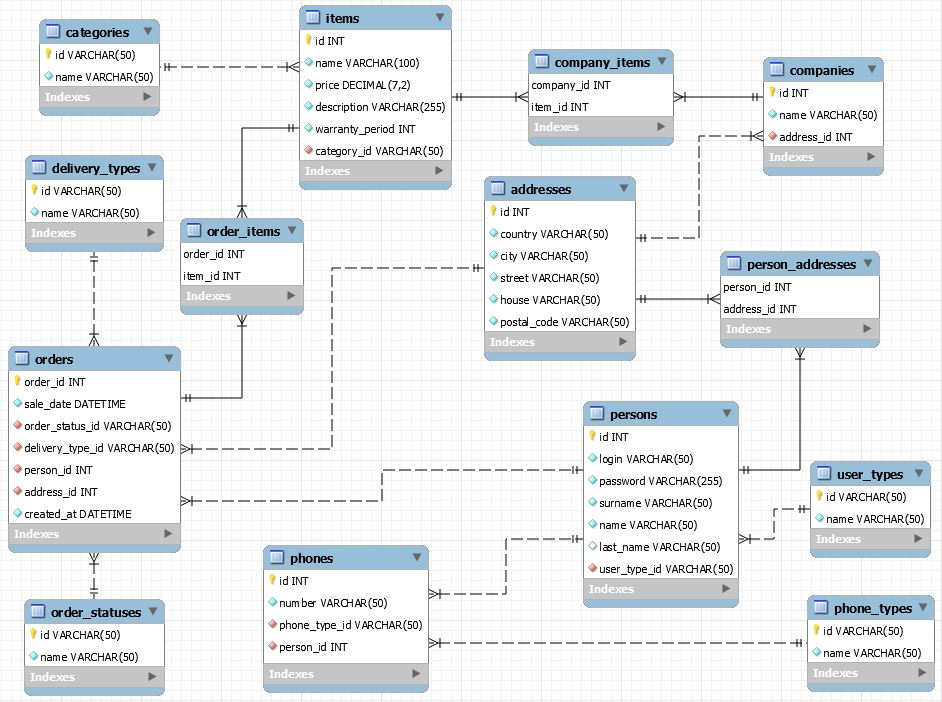
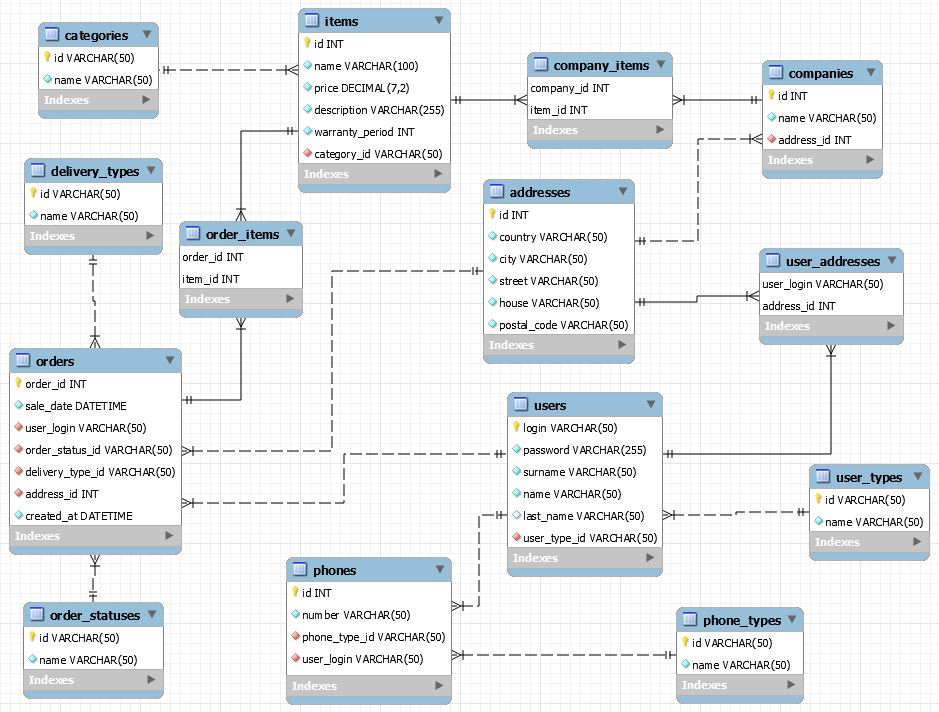
updated README.md

diff --git a/database/README.md b/database/README.md
@@ -14,6 +14,7 @@
 При построении схемы были использованы следующие упрощения, что можно развивать:
 - каждый товар находится только в одной категории;
 - описание товара не разделено на различные подразделы;
+- пароль пользователя хранится в незашифрованном виде;
 - у каждого производителя только один адрес;
 - в схеме нет реализации курьеров;
 - не полноценная реализация адресов (корпус, штат, геолокация и т.д.);
@@ -40,7 +41,7 @@
 - POWER - Power Supply
 - COOL - Cooling
 
-### Таблица `items` - "товар"
+### Таблица `items` - "товары"
 
 - id [`NOT NULL`, `INT`, `AUTOINCREMENT`] - уникальный идентификатор товара
 - name [`NOT NULL`, `VARCHAR(100)`] - название товара
@@ -48,6 +49,60 @@
 - description [`NOT NULL`, `VARCHAR(255)`] - описание товара
 - warranty_period [`NOT NULL`, `INT`] - гарантия (месяцев)
 - category_id [`NOT NULL`, `VARCHAR(50)`, `REFERENCES categories(id)`] - категория товара
+
+### Таблица `user_types` - "типы пользователей"
+
+- id [`NOT NULL`, `VARCHAR(50)`, `PRIMARY KEY`] - уникальный идентификатор типа пользователя
+- name [`NOT NULL`, `VARCHAR(50)`] - название типа пользователя
+
+Вставить в таблицу следующие значения:
+
+- ADMIN - Administrator
+- USER - User
+
+### Таблица `users` - "пользователи"
+
+- id [`NOT NULL`, `VARCHAR(50)`, `PRIMARY KEY`] - уникальный идентификатор пользователя
+- password [`NOT NULL`, `VARCHAR(255)`] - пароль пользователя
+- surname [`NOT NULL`, `VARCHAR(50)`] - фамилия пользователя
+- name [`NOT NULL`, `VARCHAR(50)`] - имя пользователя
+- last_name [`VARCHAR(50)`] - отчество пользователя
+- user_type_id [`NOT NULL`, `VARCHAR(50)`, `REFERENCES user_types(id)`] - тип пользователя
+
+### Таблица `phone_types` - "типы номеров телефонов"
+
+- id [`NOT NULL`, `VARCHAR(50)`, `PRIMARY KEY`] - уникальный идентификатор типа номера телефона
+- name [`NOT NULL`, `VARCHAR(50)`] - название типа номера телефона
+
+Вставить в таблицу следующие значения:
+
+- WORK - Work phone number
+- HOME - Home phone number
+- MOBILE - Mobile phone number
+- OTHER - Other phone number
+
+### Таблица `phones` - "номера телефонов пользователей"
+
+- id [`NOT NULL`, `INT`, `AUTOINCREMENT`] - уникальный идентификатор номера телефона
+- number [`NOT NULL`, `VARCHAR(50)`] - номер телефона
+- phone_type_id [`NOT NULL`, `VARCHAR(50)`, `REFERENCES phone_types(id)`] - тип номера телефона
+- user_login [`NOT NULL`, `VARCHAR(50)`, `REFERENCES user(id)`] - пользователь с данным номером телефона
+
+### Таблица `addresses` - "адреса"
+
+- id [`NOT NULL`, `INT`, `AUTOINCREMENT`] - уникальный идентификатор адреса
+- country [`NOT NULL`, `VARCHAR(50)`] - страна
+- city [`NOT NULL`, `VARCHAR(50)`] - город
+- street [`NOT NULL`, `VARCHAR(50)`] - улица
+- house [`NOT NULL`, `VARCHAR(50)`] - дом
+- postal_code [`NOT NULL`, `VARCHAR(50)`] - почтовый индекс
+
+### Таблица `user_addresses` - "адреса пользователей или пользователи, которые живут по некоторому адресу"
+
+*MM связь между `users` и `addresses`*
+
+- user_login [`NOT NULL`, `VARCHAR(50)`, `REFERENCES users(login)`] - логин пользователя
+- address_id [`NOT NULL`, `INT`, `REFERENCES addresses(id)`] - адрес
 
 ***
 
